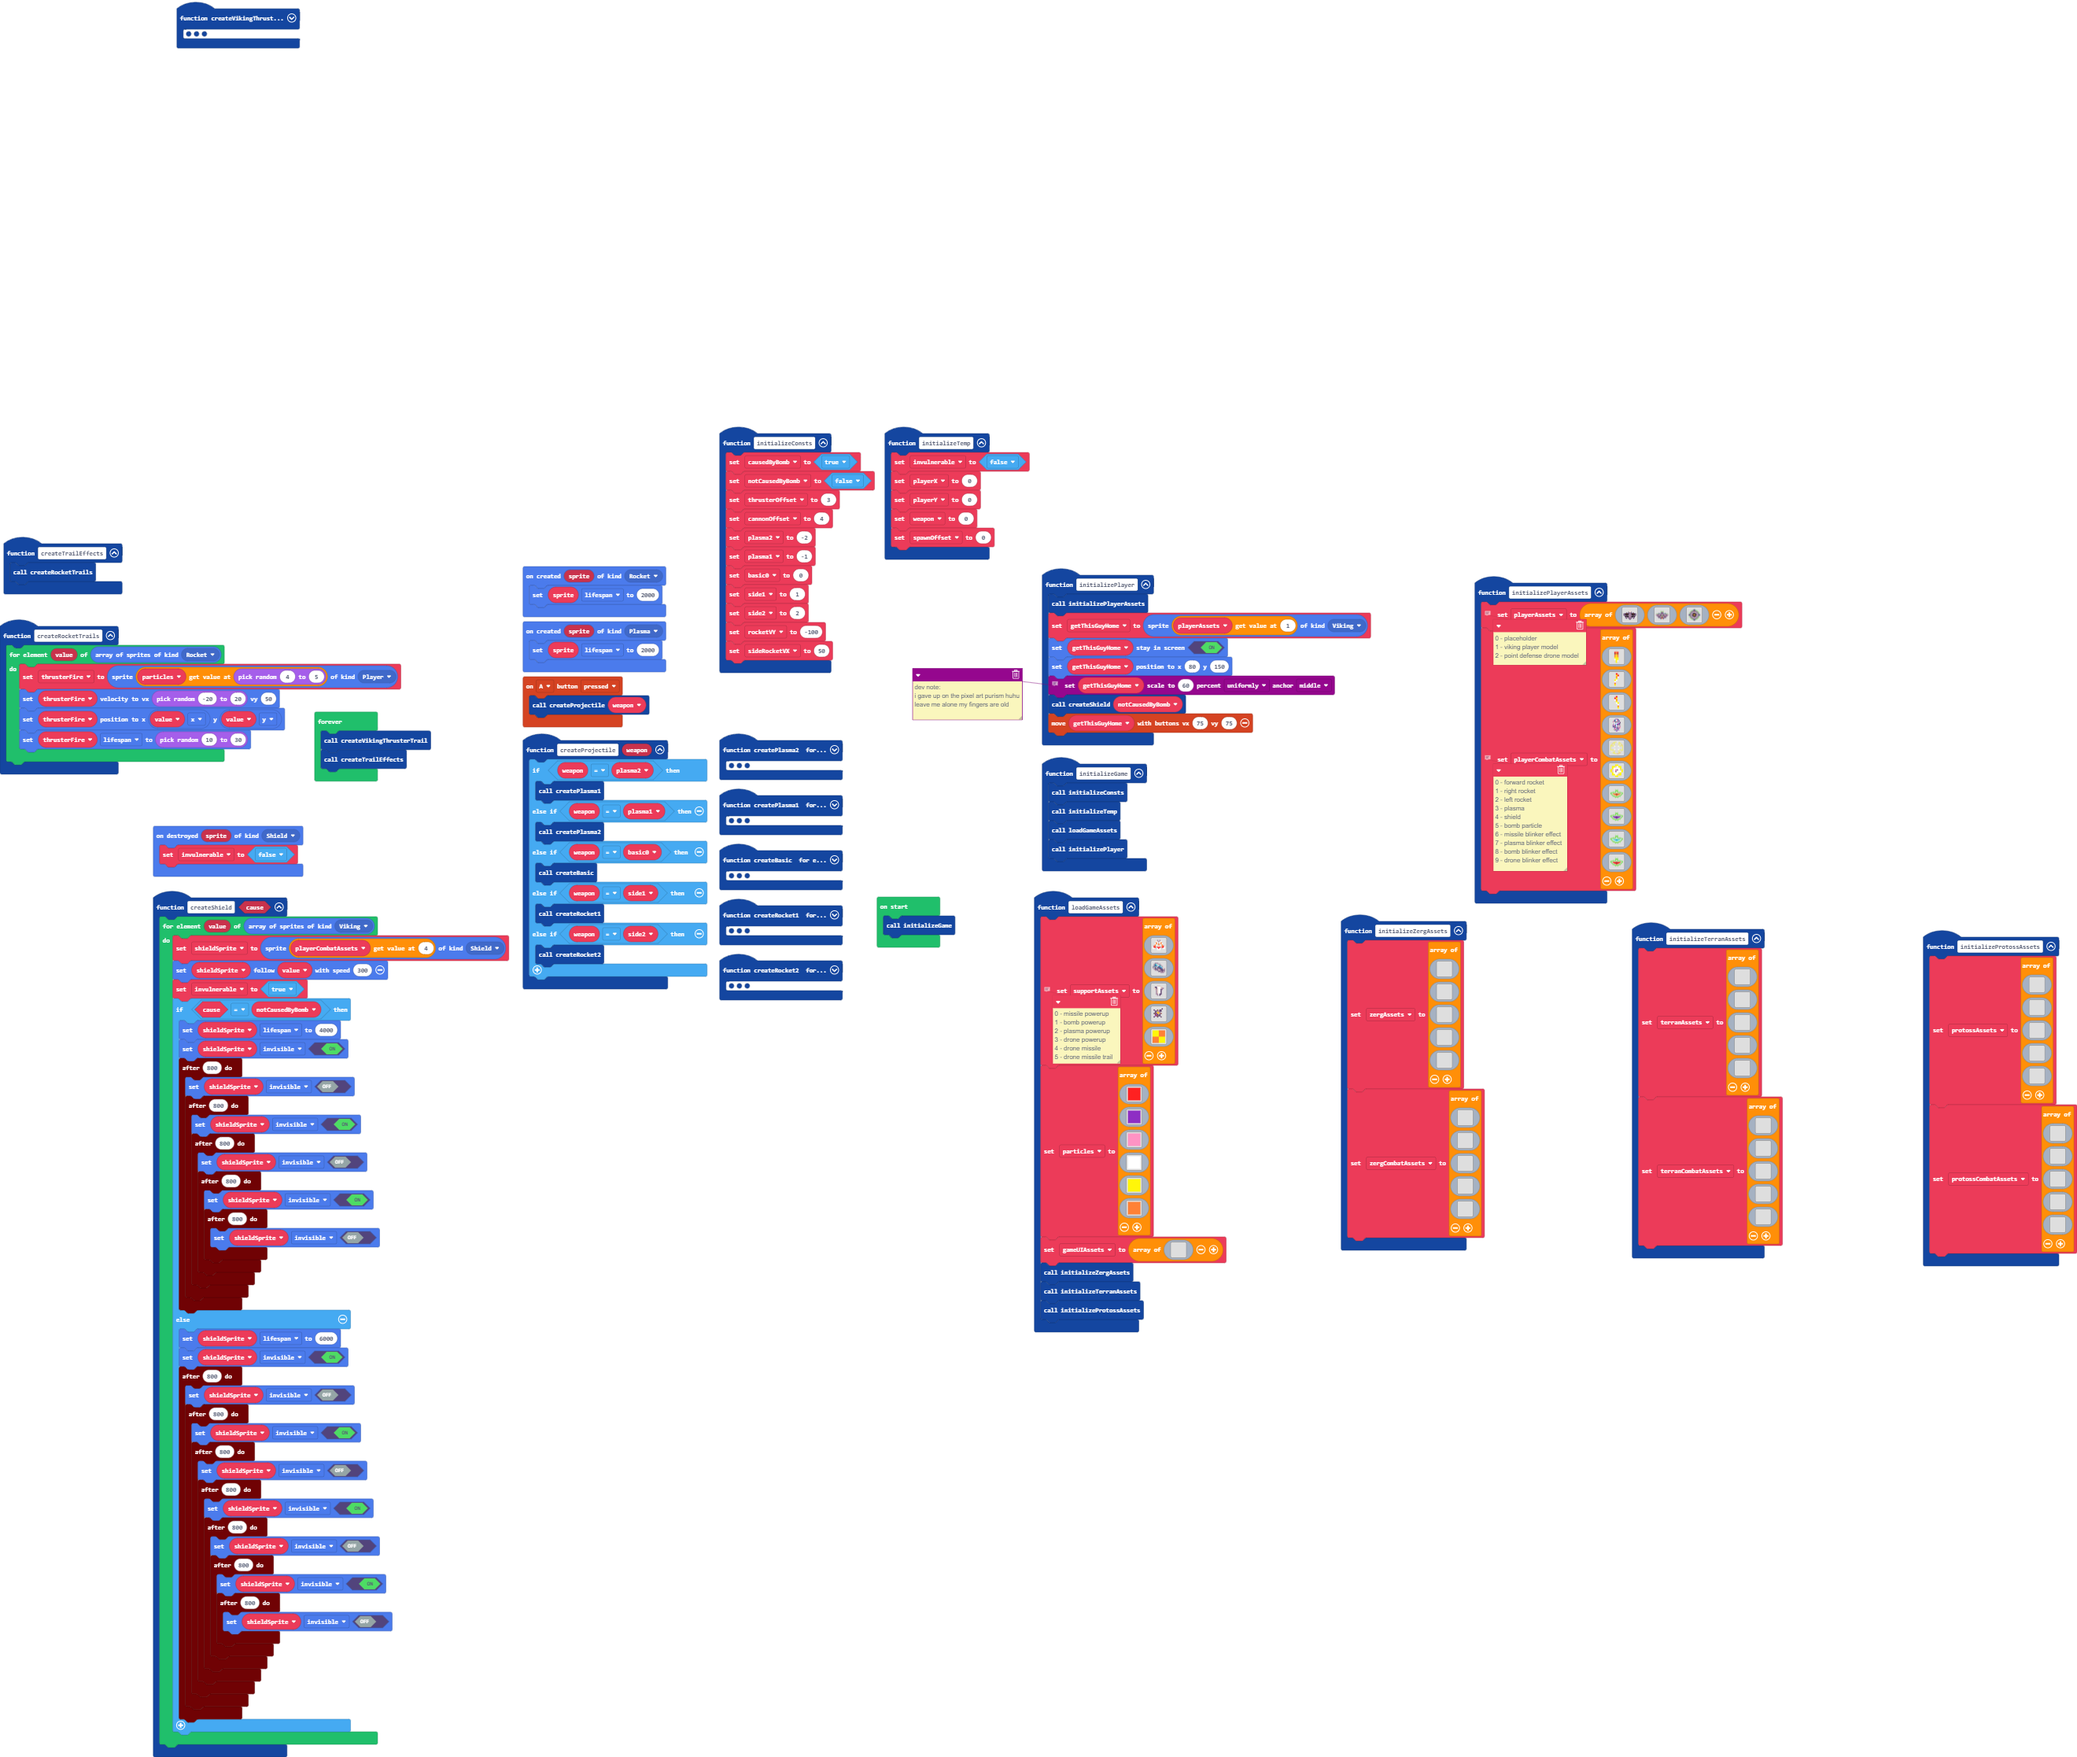
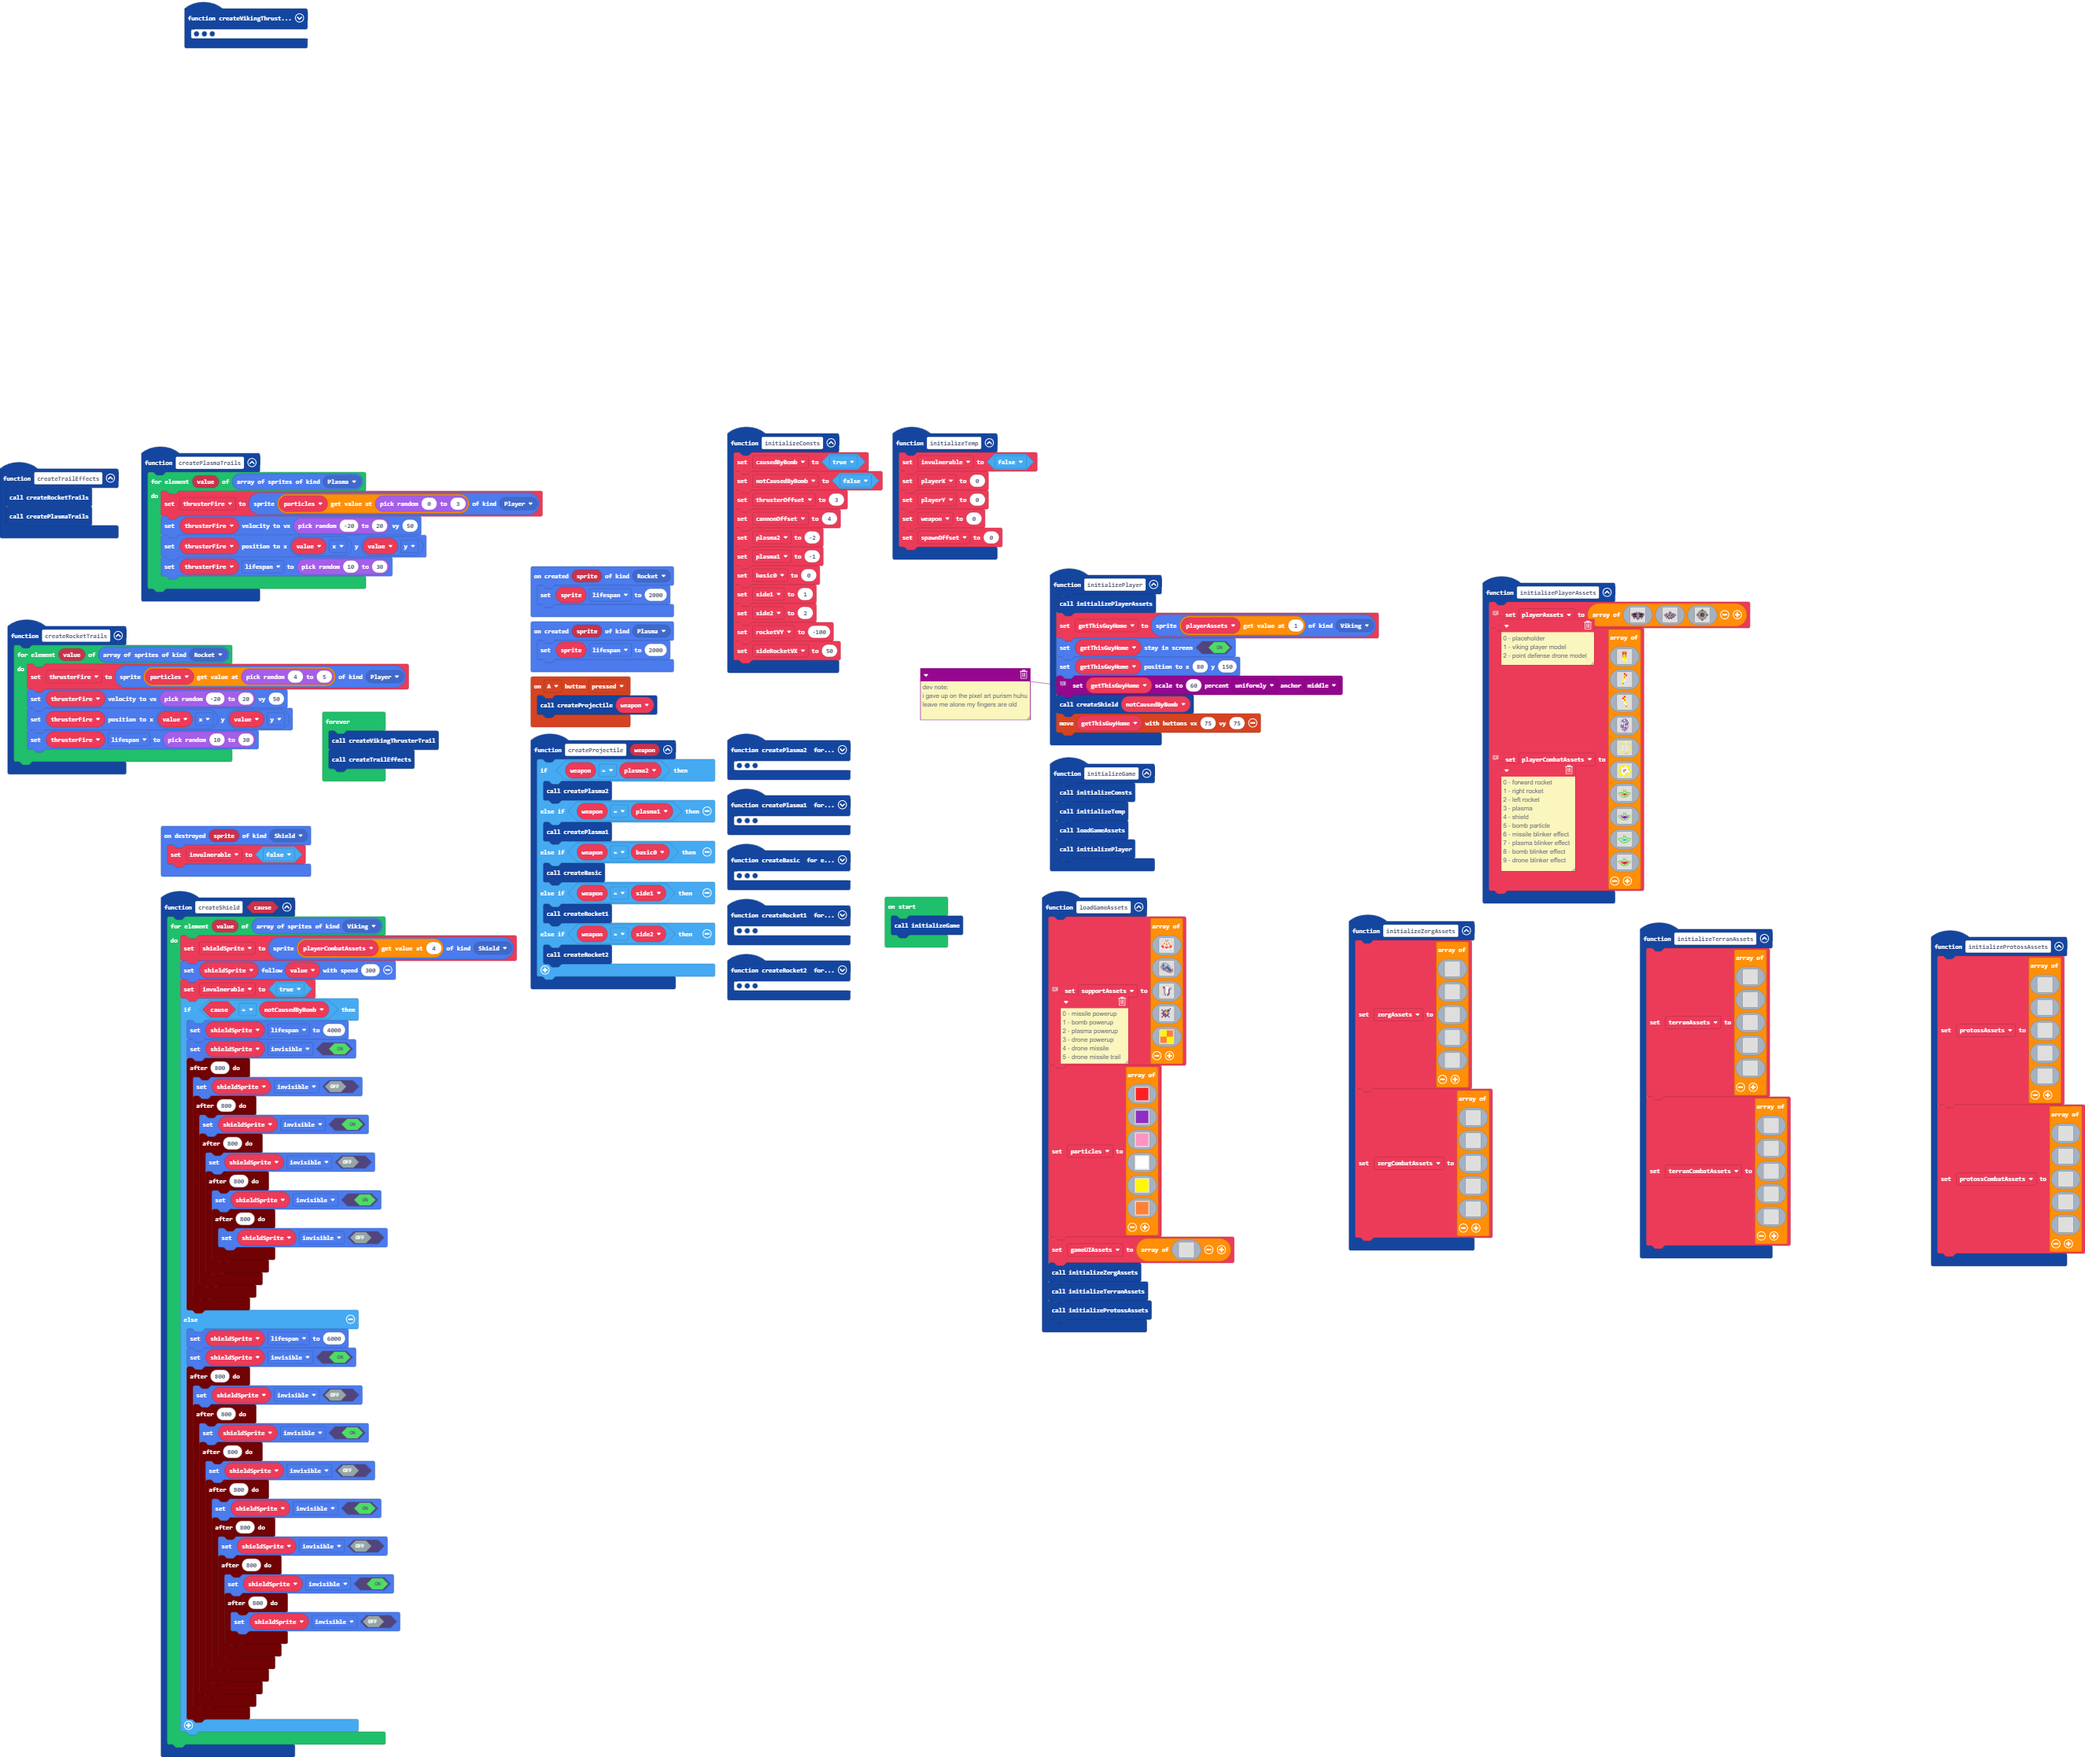
create plasma effects

diff --git a/main.ts b/main.ts
@@ -41,9 +41,9 @@ function createRocket2 () {
 }
 function createProjectile (weapon: number) {
     if (weapon == plasma2) {
-        createPlasma1()
-    } else if (weapon == plasma1) {
         createPlasma2()
+    } else if (weapon == plasma1) {
+        createPlasma1()
     } else if (weapon == basic0) {
         createBasic()
     } else if (weapon == side1) {
@@ -379,6 +379,14 @@ function createRocket1 () {
             spawnVX = spawnVX * -1
             increment1 += 1
         }
+    }
+}
+function createPlasmaTrails () {
+    for (let value of sprites.allOfKind(SpriteKind.Plasma)) {
+        thrusterFire = sprites.create(particles2[randint(0, 3)], SpriteKind.Player)
+        thrusterFire.setVelocity(randint(-20, 20), 50)
+        thrusterFire.setPosition(value.x, value.y)
+        thrusterFire.lifespan = randint(10, 30)
     }
 }
 function createVikingThrusterTrail () {
@@ -1177,6 +1185,7 @@ function createBasic () {
 }
 function createTrailEffects () {
     createRocketTrails()
+    createPlasmaTrails()
 }
 let gameUIAssets: Image[] = []
 let supportAssets: Image[] = []
